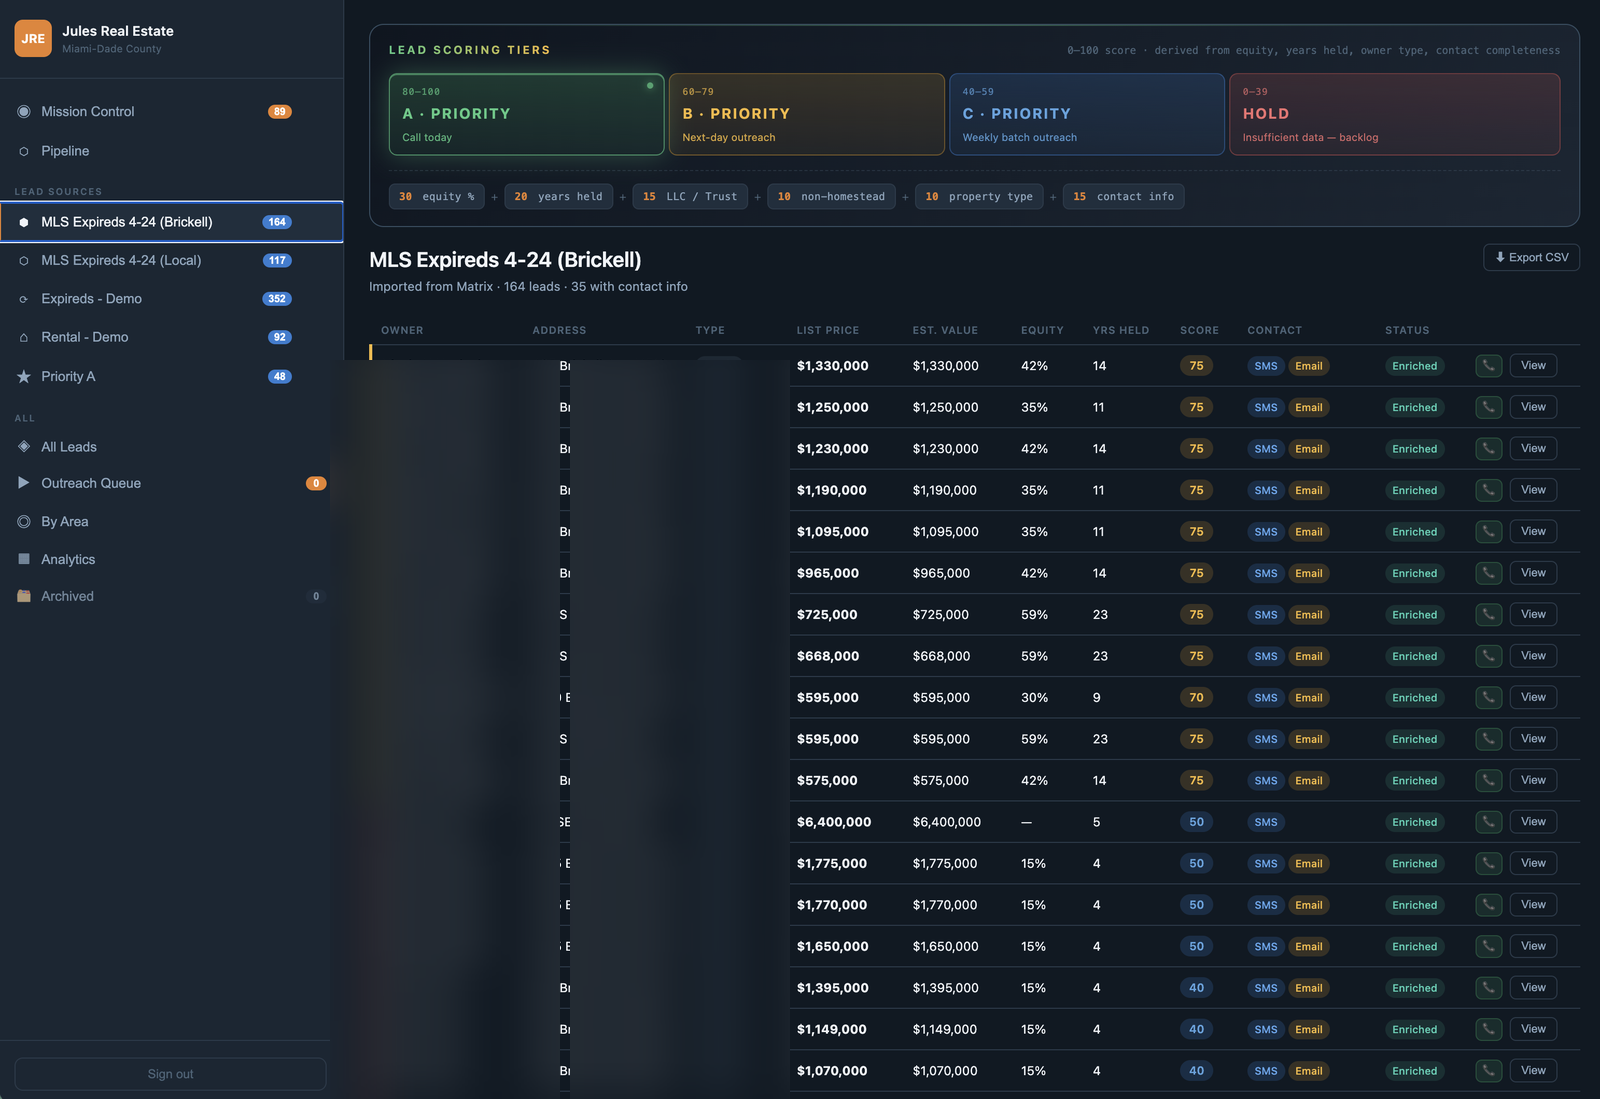
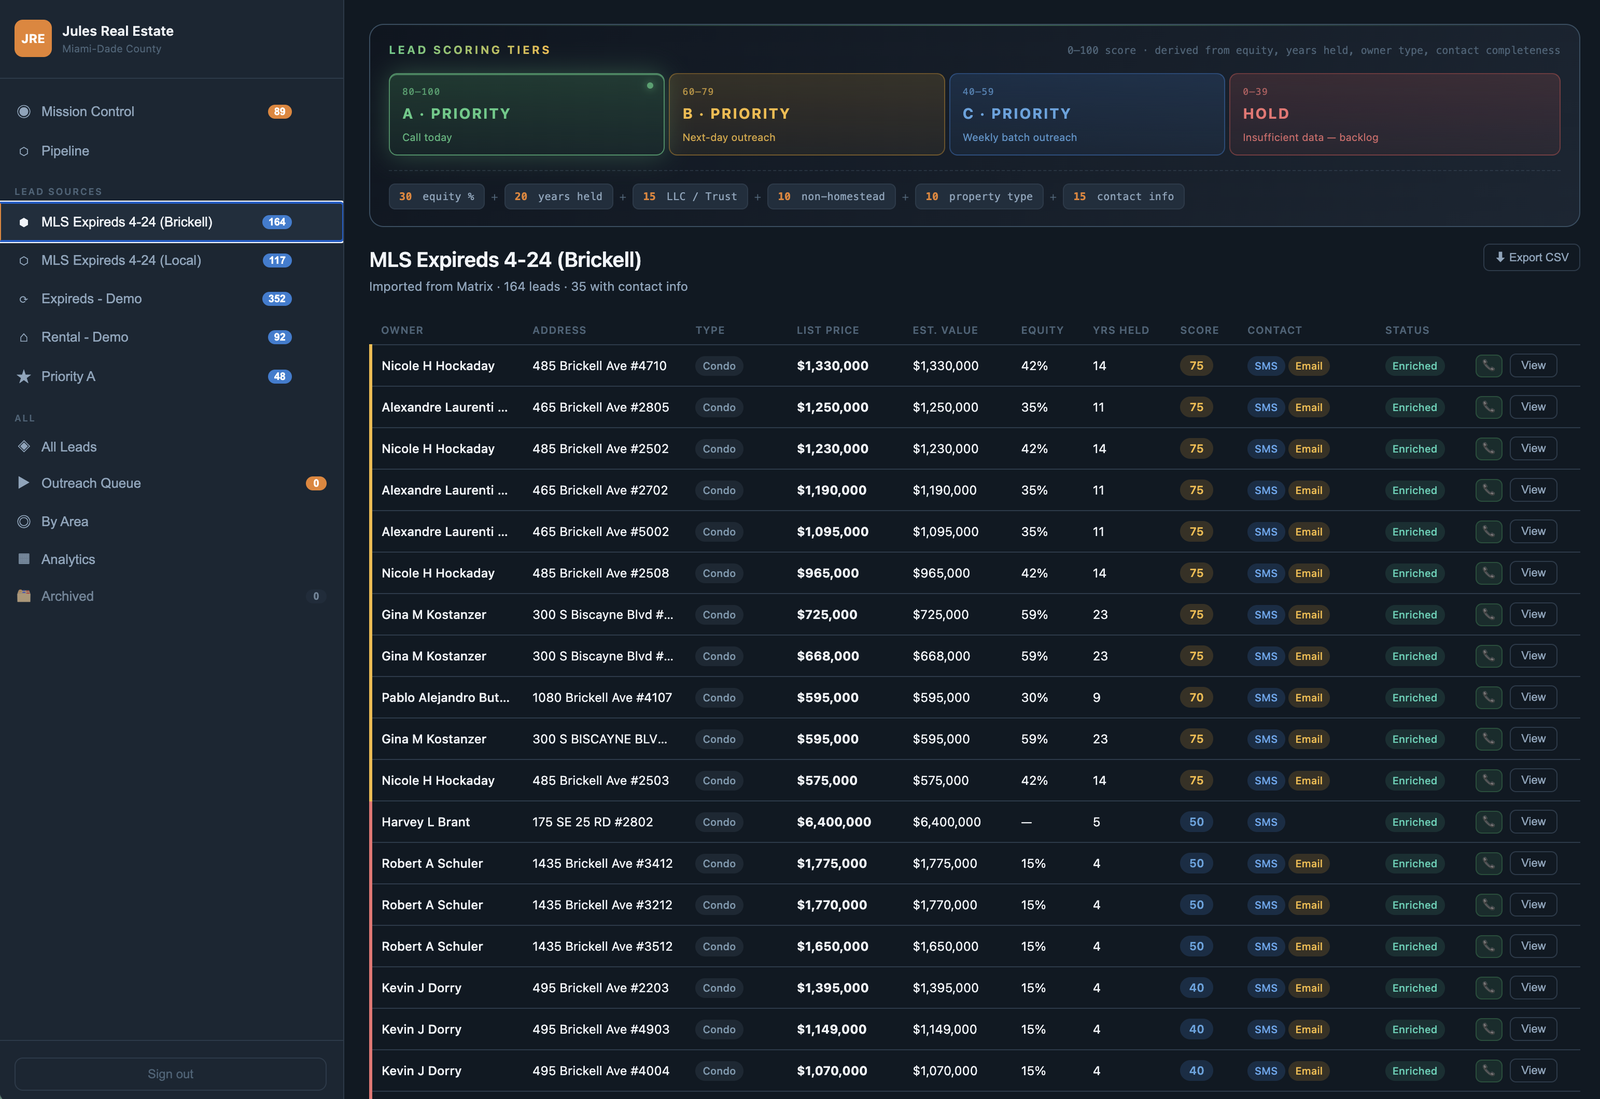
Use unblurred screenshots for now; remove CSS display-time blur

diff --git a/styles.css b/styles.css
@@ -285,12 +285,7 @@ a:hover { color: var(--teal); }
 .screenshot img {
   width: 100%; height: 100%; object-fit: cover; display: block;
   background: #081a31;
-  /* Subtle blur on real screenshots so PII (names, phones, emails) doesn't
-     leak. Layout and colors read clearly; text doesn't. */
-  filter: blur(2.2px) saturate(1.05);
-  transition: filter .25s ease;
 }
-.screenshot:hover img { filter: blur(3px) saturate(1.05); }
 .screenshot figcaption {
   position: absolute; bottom: 0; left: 0; right: 0;
   padding: 14px 18px;
